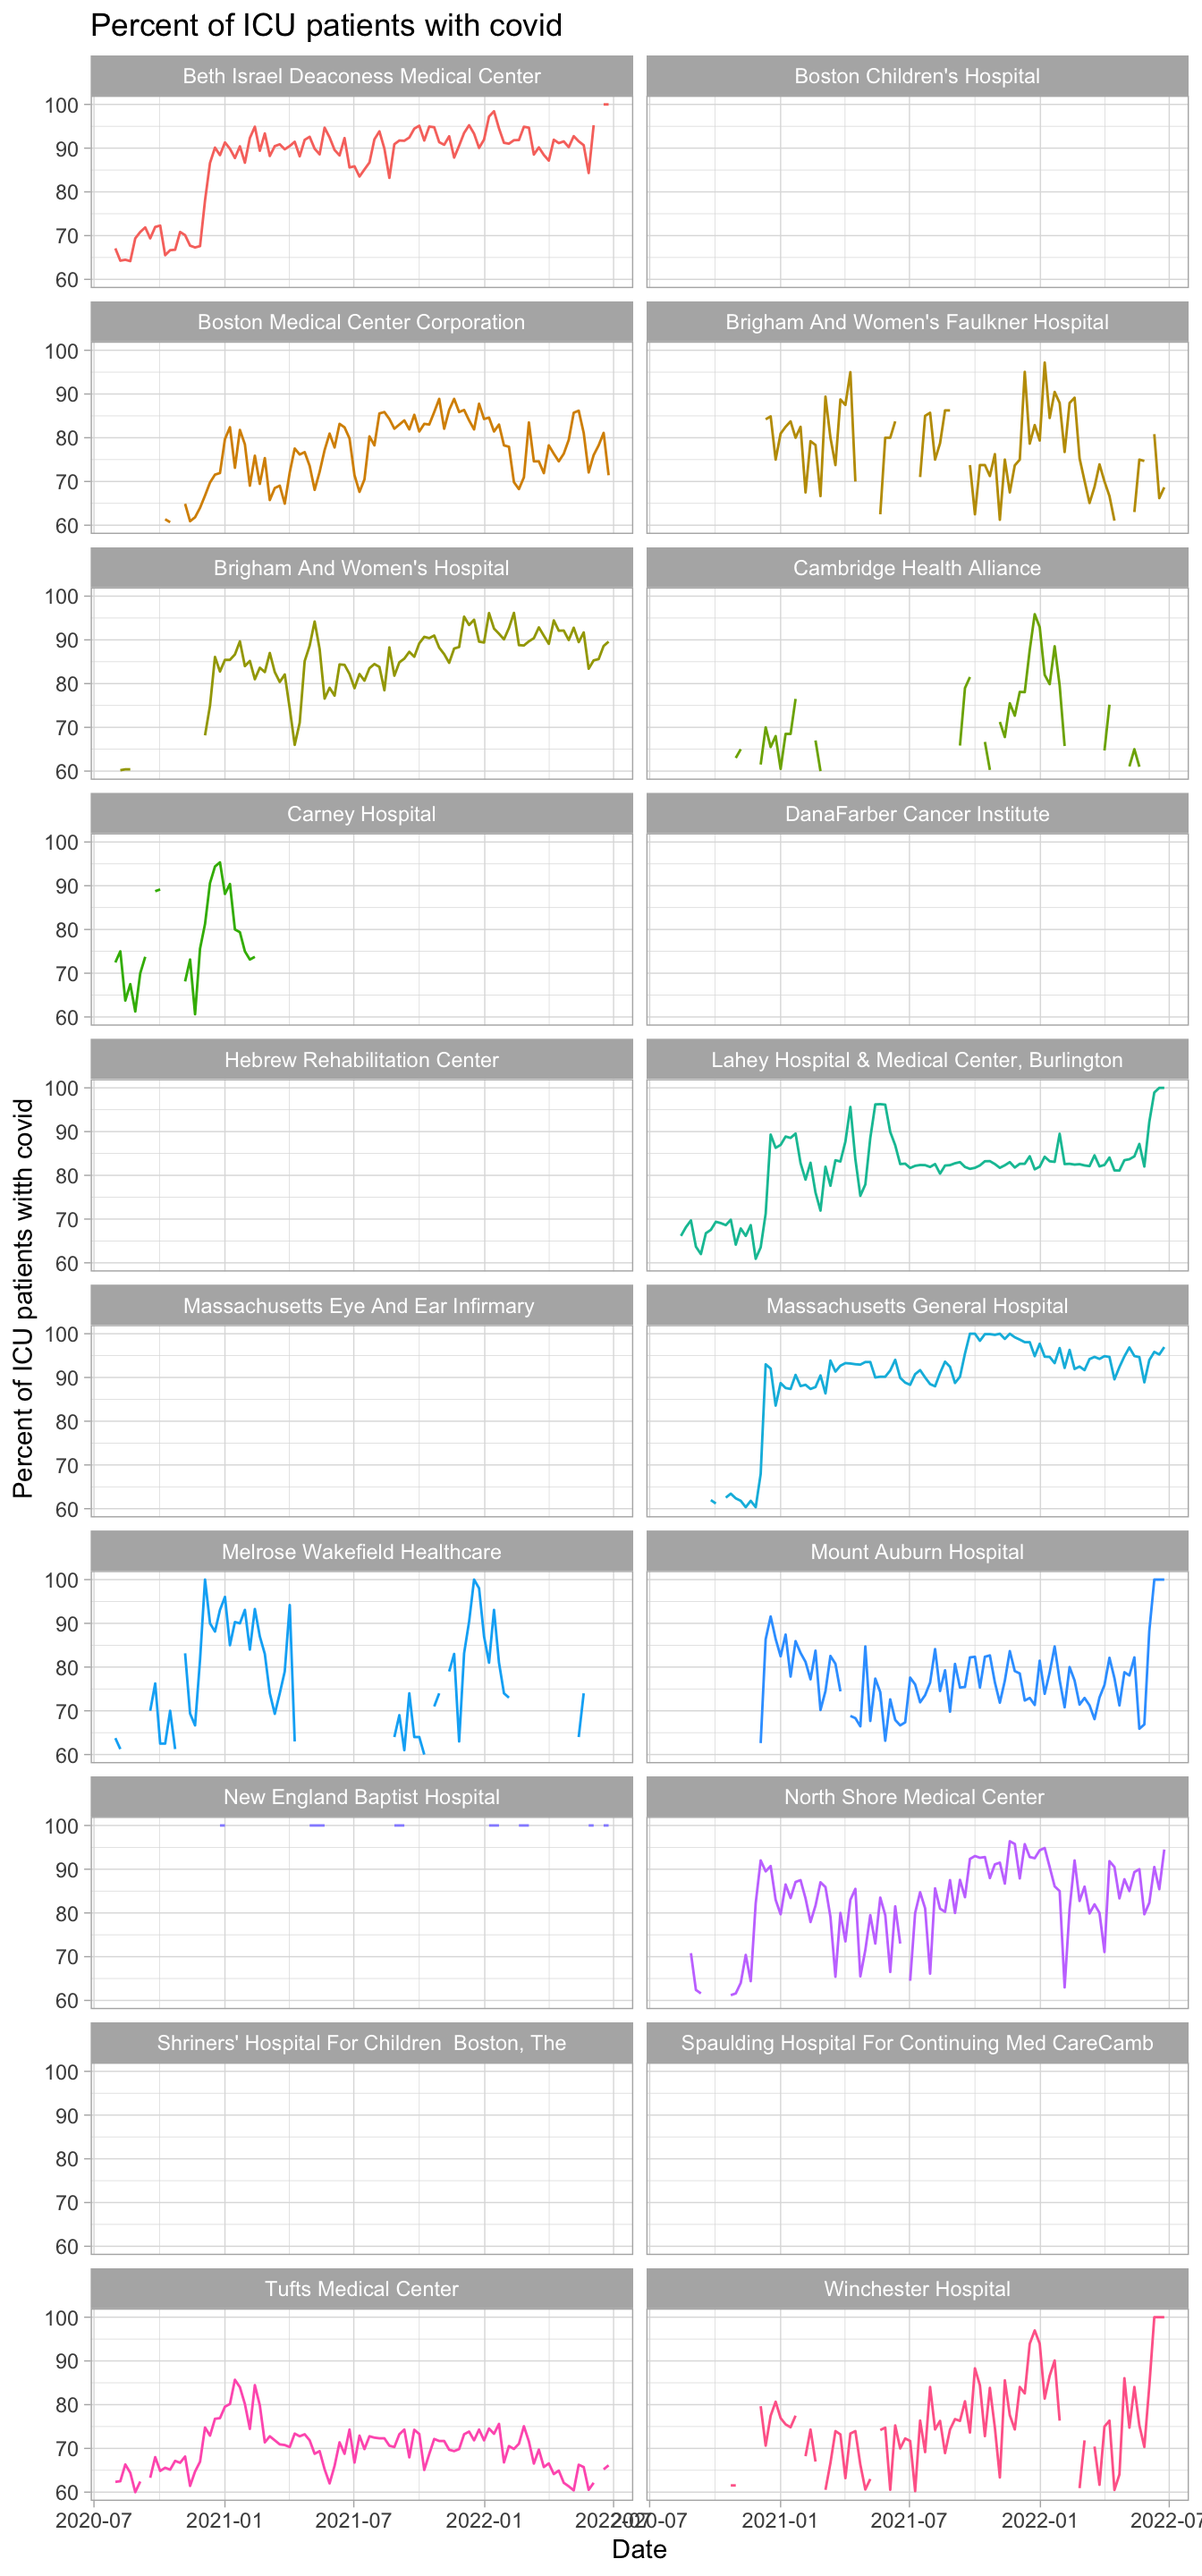
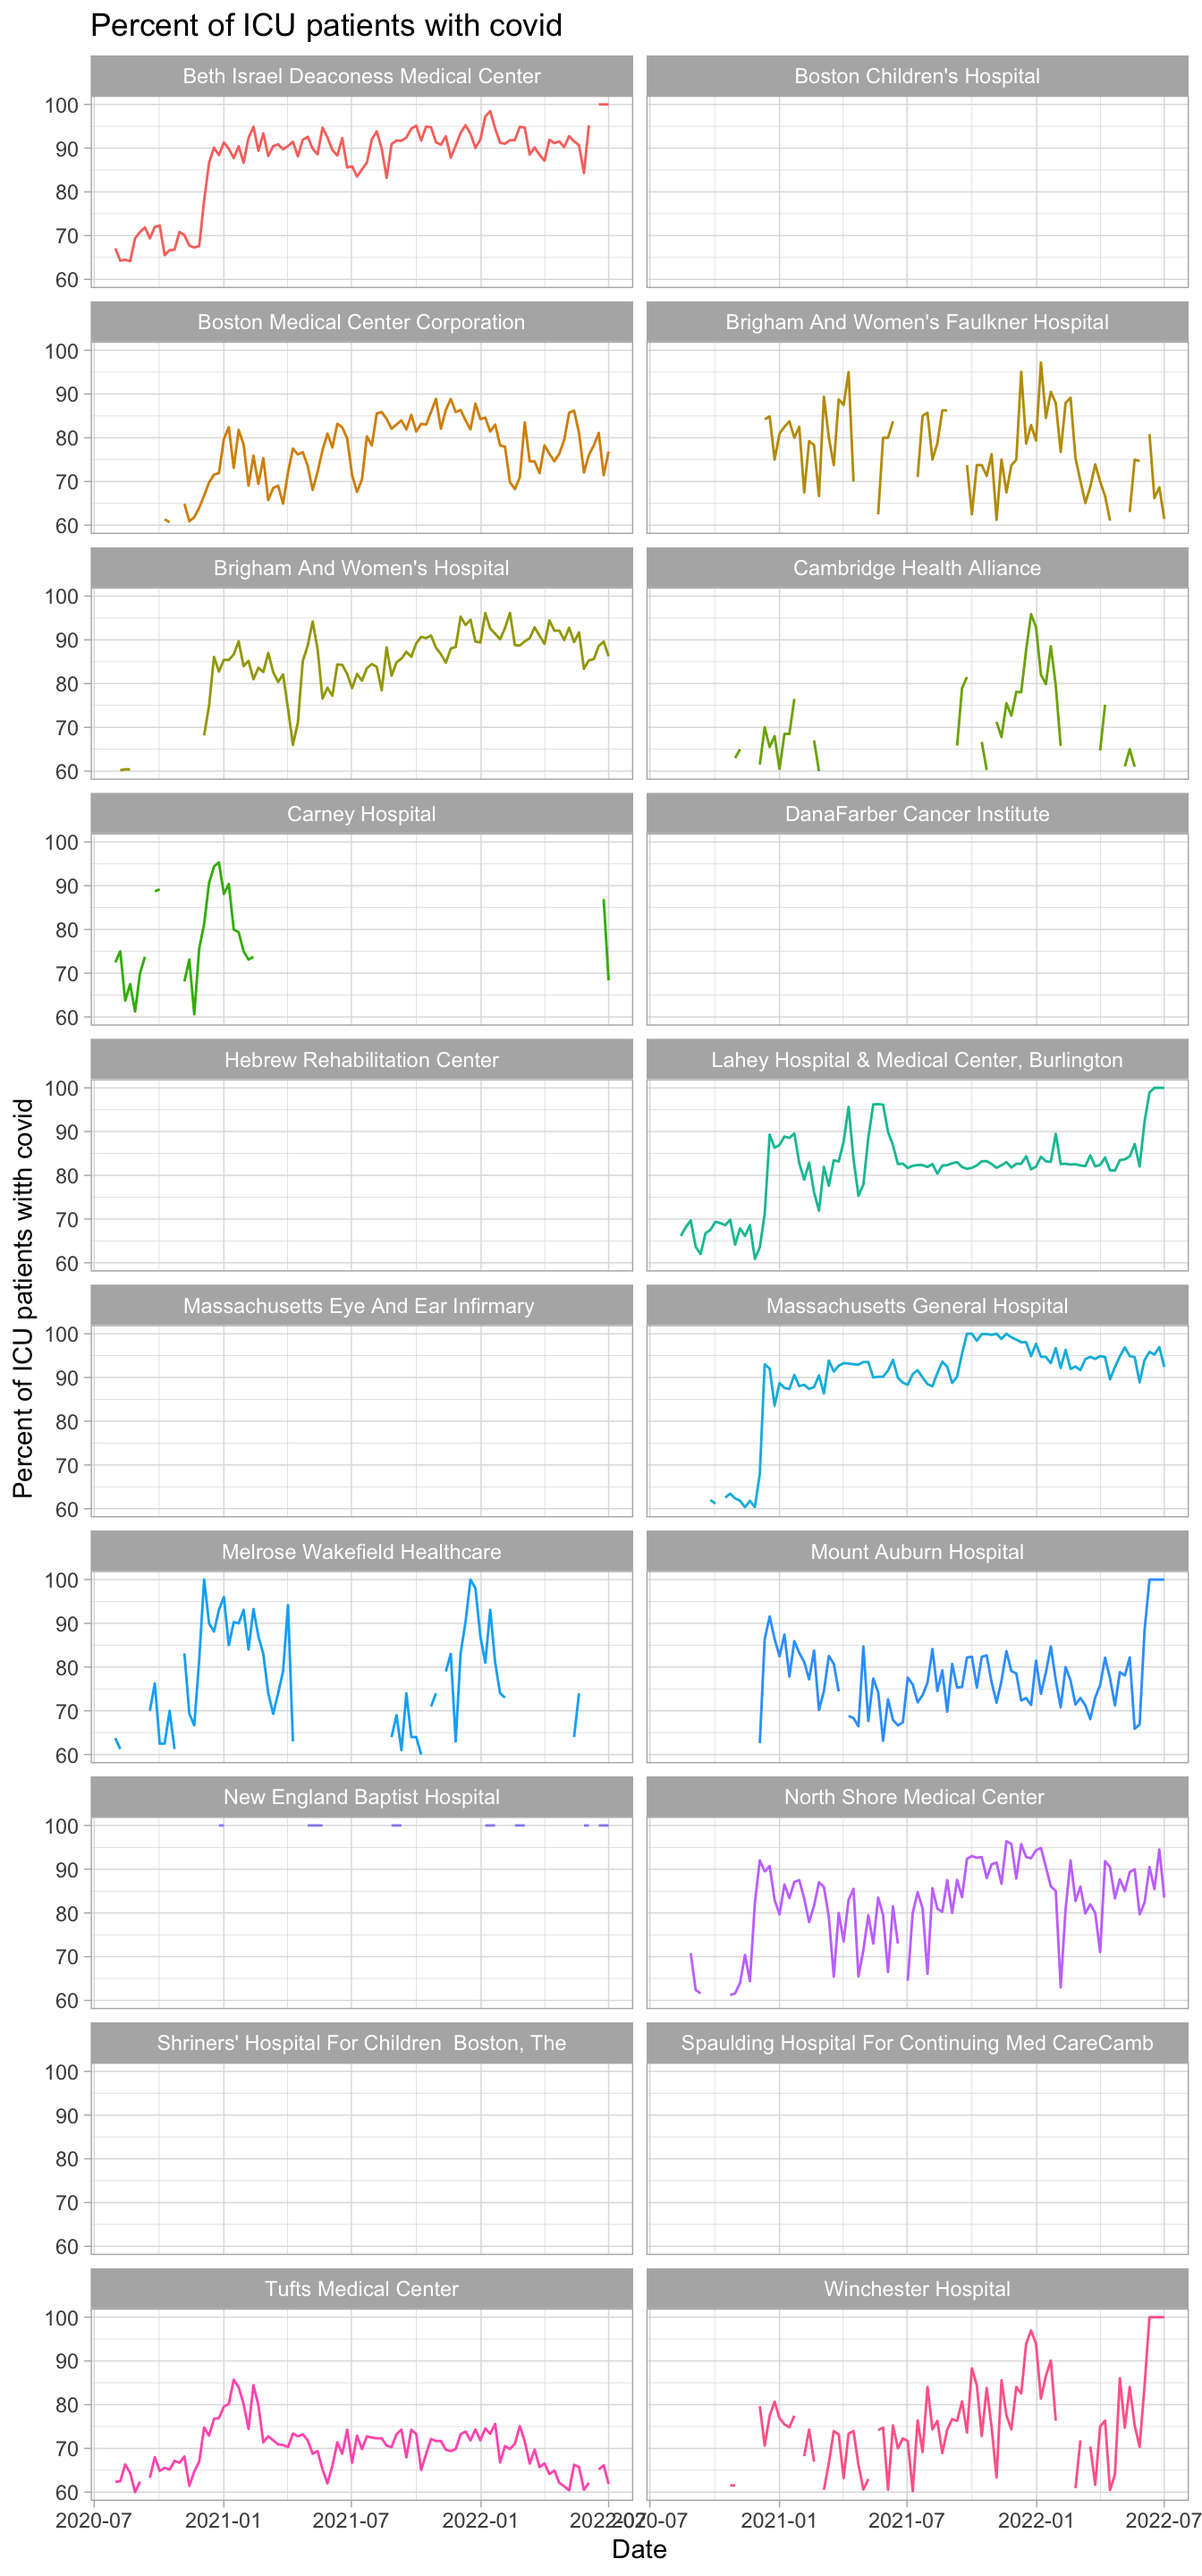
updated data

diff --git a/docs/index.html b/docs/index.html
@@ -310,7 +310,7 @@ it could indicate that many other cases are being missed).</p>
 <p>The US Department of Health and Human Services gives data on hospital
 usage. Here are data of ICU bed availability for hospitals in this area
 with at least 25 staffed ICU beds, using data from the week starting
-2022-06-24.</p>
+2022-07-01.</p>
 <table>
 <colgroup>
 <col width="46%" />
@@ -330,44 +330,44 @@ with at least 25 staffed ICU beds, using data from the week starting
 <tr class="odd">
 <td align="left">Beth Israel Deaconess Medical Center</td>
 <td align="right">12</td>
-<td align="right">122</td>
-<td align="right">90</td>
+<td align="right">111</td>
+<td align="right">89</td>
 </tr>
 <tr class="even">
 <td align="left">Boston Children’s Hospital</td>
-<td align="right">17</td>
+<td align="right">14</td>
 <td align="right">119</td>
-<td align="right">86</td>
+<td align="right">89</td>
 </tr>
 <tr class="odd">
 <td align="left">Boston Medical Center Corporation</td>
-<td align="right">28</td>
+<td align="right">23</td>
 <td align="right">88</td>
-<td align="right">69</td>
+<td align="right">74</td>
 </tr>
 <tr class="even">
 <td align="left">Brigham And Women’s Hospital</td>
-<td align="right">10</td>
-<td align="right">158</td>
-<td align="right">93</td>
+<td align="right">20</td>
+<td align="right">164</td>
+<td align="right">87</td>
 </tr>
 <tr class="odd">
 <td align="left">Lahey Hospital &amp; Medical Center, Burlington</td>
 <td align="right">0</td>
-<td align="right">49</td>
+<td align="right">46</td>
 <td align="right">100</td>
 </tr>
 <tr class="even">
 <td align="left">Massachusetts General Hospital</td>
-<td align="right">6</td>
+<td align="right">11</td>
 <td align="right">147</td>
-<td align="right">96</td>
+<td align="right">92</td>
 </tr>
 <tr class="odd">
 <td align="left">Tufts Medical Center</td>
-<td align="right">42</td>
-<td align="right">122</td>
-<td align="right">65</td>
+<td align="right">43</td>
+<td align="right">117</td>
+<td align="right">63</td>
 </tr>
 </tbody>
 </table>
@@ -379,7 +379,7 @@ in the state:</p>
 <p>And those intubated:</p>
 <p><img src="index_files/figure-html/unnamed-chunk-7-1.png" width="672" /></p>
 <p>Plotting percentage of ICU patients with covid over time (up to the
-week starting 2022-06-24). Some hospitals have much more frequently
+week starting 2022-07-01). Some hospitals have much more frequently
 updated data than others; some is fairly gappy. This just plots the
 hospitals that average at least 25 staffed <em>adult</em> ICU beds per
 week.</p>

diff --git a/docs/individualhospitals.html b/docs/individualhospitals.html
@@ -306,44 +306,44 @@ usage. Here are data for hospitals in this area.</p>
 <tr class="odd">
 <td align="left">Beth Israel Deaconess Medical Center</td>
 <td align="right">12</td>
-<td align="right">122</td>
-<td align="right">90</td>
+<td align="right">111</td>
+<td align="right">89</td>
 </tr>
 <tr class="even">
 <td align="left">Boston Children’s Hospital</td>
-<td align="right">17</td>
+<td align="right">14</td>
 <td align="right">119</td>
-<td align="right">86</td>
+<td align="right">89</td>
 </tr>
 <tr class="odd">
 <td align="left">Boston Medical Center Corporation</td>
-<td align="right">28</td>
+<td align="right">23</td>
 <td align="right">88</td>
-<td align="right">69</td>
+<td align="right">74</td>
 </tr>
 <tr class="even">
 <td align="left">Brigham And Women’s Hospital</td>
-<td align="right">10</td>
-<td align="right">158</td>
-<td align="right">93</td>
+<td align="right">20</td>
+<td align="right">164</td>
+<td align="right">87</td>
 </tr>
 <tr class="odd">
 <td align="left">Lahey Hospital &amp; Medical Center, Burlington</td>
 <td align="right">0</td>
-<td align="right">49</td>
+<td align="right">46</td>
 <td align="right">100</td>
 </tr>
 <tr class="even">
 <td align="left">Massachusetts General Hospital</td>
-<td align="right">6</td>
+<td align="right">11</td>
 <td align="right">147</td>
-<td align="right">96</td>
+<td align="right">92</td>
 </tr>
 <tr class="odd">
 <td align="left">Tufts Medical Center</td>
-<td align="right">42</td>
-<td align="right">122</td>
-<td align="right">65</td>
+<td align="right">43</td>
+<td align="right">117</td>
+<td align="right">63</td>
 </tr>
 </tbody>
 </table>
